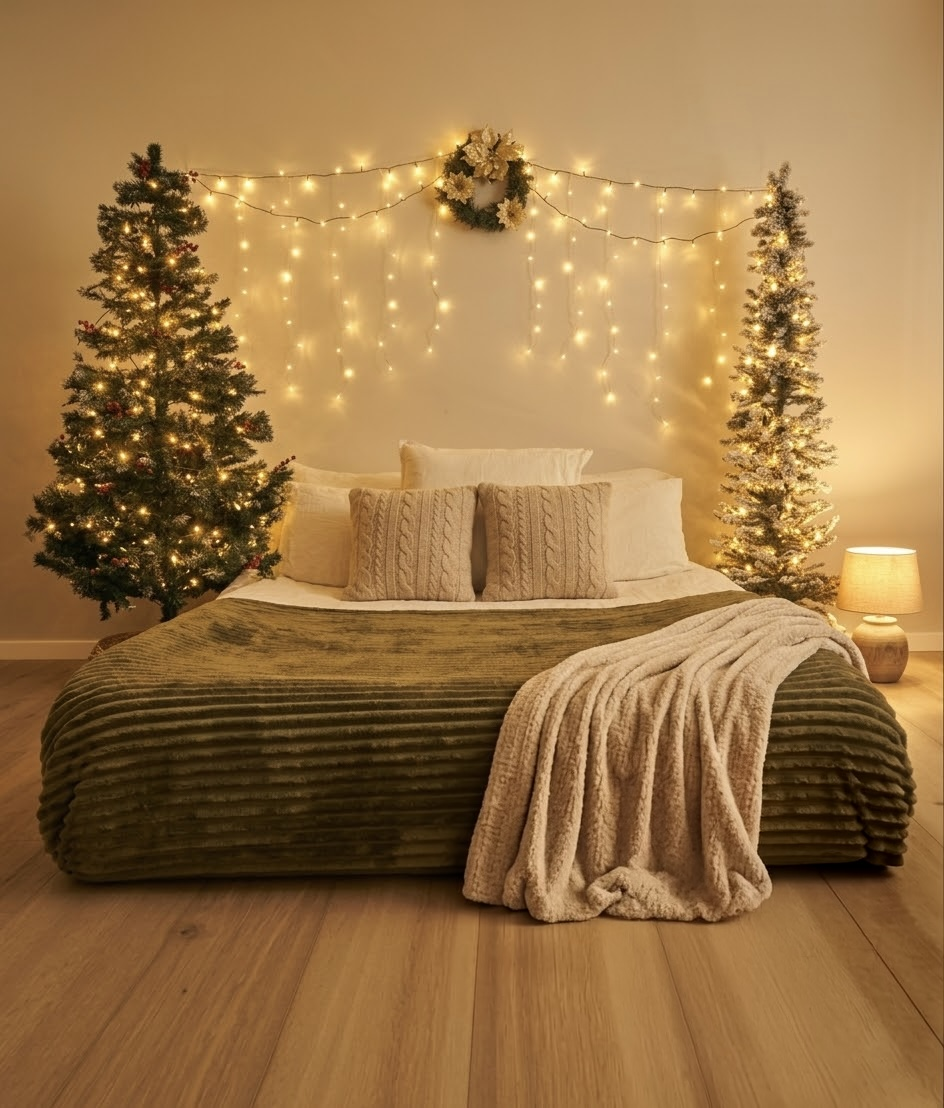
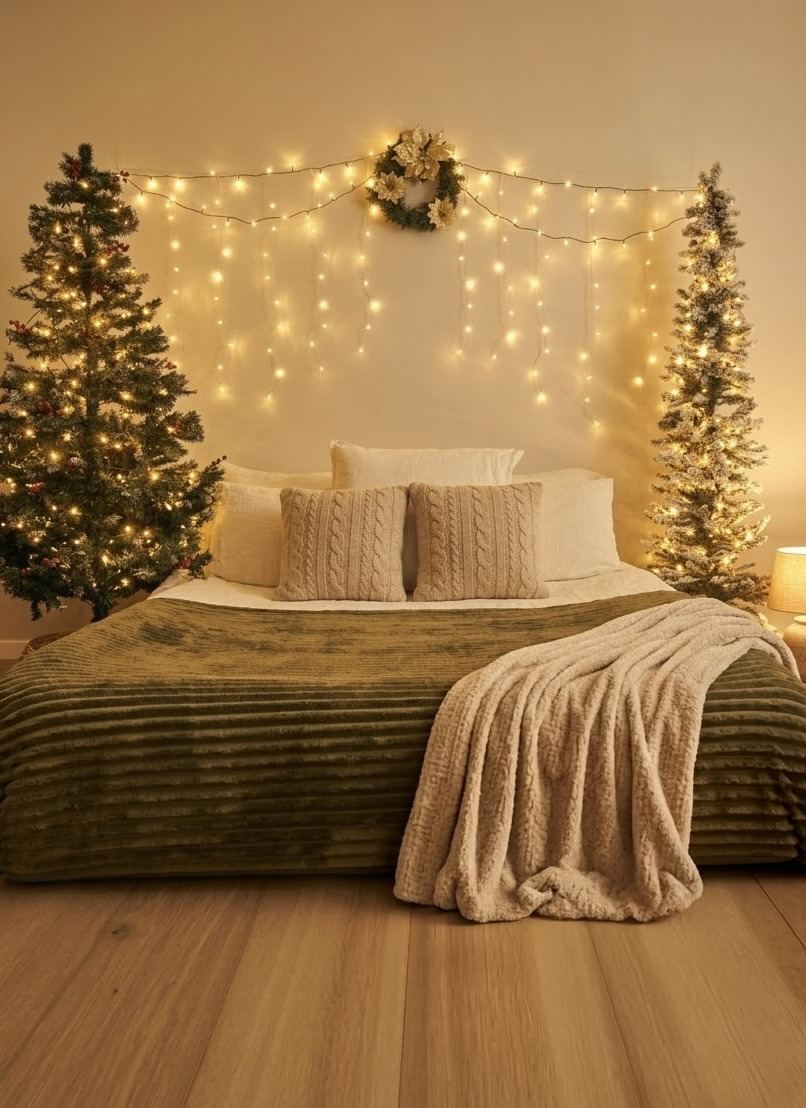
Christmas minis: add the chair set as a second option
Two sets are up all day now, so families choose on arrival. The bed
suits babies and little ones; the chairs take up to four adults and
suit kids past the being-held stage, or grandparents joining in.

Shows both sets side by side at matched crops, and brings the copy,
the alt text and the FAQPage JSON-LD into line with there being two.

Claude-Session: https://claude.ai/code/session_01Jmhh5Er2vGiQE4SfjCEe2P

diff --git a/christmas-minis.html b/christmas-minis.html
@@ -42,7 +42,7 @@
         "name": "Is fifteen minutes actually enough?",
         "acceptedAnswer": {
           "@type": "Answer",
-          "text": "Yes. The set is already built and lit, so none of your time goes on setting up. There is also a ten-minute buffer between sessions, so nobody is hurried out and little ones get a moment to warm up first. Fifteen minutes is also about the honest limit of a toddler's patience."
+          "text": "Yes. Both sets are already built and lit, so none of your time goes on setting up. There is also a ten-minute buffer between sessions, so nobody is hurried out and little ones get a moment to warm up first. Fifteen minutes is also about the honest limit of a toddler's patience."
         }
       },
       {
@@ -58,7 +58,7 @@
         "name": "What should we wear?",
         "acceptedAnswer": {
           "@type": "Answer",
-          "text": "Christmas clothes are very welcome, or wear whatever everyone is comfortable in. Neutrals sit beautifully against the set, and textures like knits, cord and wool read better on camera than flat block colour. Pick colours that complement each other rather than matching exactly."
+          "text": "Christmas clothes are very welcome, or wear whatever everyone is comfortable in. Neutrals sit beautifully against both sets, and textures like knits, cord and wool read better on camera than flat block colour. Pick colours that complement each other rather than matching exactly."
         }
       },
       {
@@ -74,7 +74,7 @@
         "name": "How many of us can come?",
         "acceptedAnswer": {
           "@type": "Answer",
-          "text": "The set comfortably holds two adults and the kids. If you are a larger group, get in touch before you book and we will work out what is possible."
+          "text": "The bed set comfortably holds two adults and the kids. The chair set takes up to four adults, so it is the one for grandparents joining in, or for families whose kids are past the being-held stage. If you are a larger group than that, get in touch before you book and we will work out what is possible."
         }
       },
       {
@@ -220,13 +220,18 @@
     .after { margin: 60px 0 0; padding-top: 46px; border-top: 1px solid var(--border); }
     .after > h2 { margin-bottom: 14px; }
 
-    .set-grid { display: grid; grid-template-columns: 290px 1fr; gap: 34px; align-items: start; }
-    .set-grid .shot { margin: 0; aspect-ratio: 944 / 1108; }
+    .set-grid { display: block; }
+    .set-shots { display: grid; grid-template-columns: 1fr 1fr; gap: 16px; margin: 0 0 28px; }
+    .set-item { margin: 0; }
+    .set-grid .shot { margin: 0; aspect-ratio: 806 / 1108; }
+    .set-shots figcaption {
+      font-size: 0.76rem; letter-spacing: 0.02em; color: var(--mid);
+      margin-top: 8px; text-align: center;
+    }
     .set-copy p { margin: 0 0 14px; color: #4d453f; max-width: 52ch; }
     .set-copy p:last-child { margin: 0; }
     @media (max-width: 640px) {
-      .set-grid { grid-template-columns: 1fr; gap: 24px; }
-      .set-grid .shot { aspect-ratio: 4 / 3; }
+      .set-shots { gap: 10px; margin-bottom: 22px; }
     }
 
     /* FAQ — native <details> so it works without JavaScript and stays
@@ -289,7 +294,7 @@
       <picture>
         <source srcset="/Images/webp/christmas-minis-family.webp" type="image/webp">
         <img src="/Images/web/christmas-minis-family.jpg"
-             alt="A mother and her baby daughter sitting together on the bed in the Christmas set, lit trees and fairy lights either side"
+             alt="A mother and her baby daughter sitting together on the bed set, lit trees and fairy lights either side"
              width="1192" height="880" decoding="async">
       </picture>
     </figure>
@@ -378,18 +383,35 @@
     </section>
 
     <section class="after" aria-labelledby="set-h">
-      <h2 id="set-h">The set</h2>
+      <h2 id="set-h">The sets</h2>
       <div class="set-grid">
-        <figure class="shot">
-          <picture>
-            <source srcset="/Images/webp/christmas-minis-set.webp" type="image/webp">
-            <img src="/Images/web/christmas-minis-set.jpg"
-                 alt="The Christmas mini session set: a bed made up in green velvet and cream knit, framed by two lit Christmas trees and a curtain of fairy lights"
-                 width="944" height="1108" loading="lazy" decoding="async">
-          </picture>
-        </figure>
+        <div class="set-shots">
+          <figure class="set-item">
+            <div class="shot">
+              <picture>
+                <source srcset="/Images/webp/christmas-minis-set.webp" type="image/webp">
+                <img src="/Images/web/christmas-minis-set.jpg"
+                     alt="The bed set: a bed made up in green velvet and cream knit, framed by two lit Christmas trees and a curtain of fairy lights"
+                     width="806" height="1108" loading="lazy" decoding="async">
+              </picture>
+            </div>
+            <figcaption>The bed &mdash; babies and little ones</figcaption>
+          </figure>
+          <figure class="set-item">
+            <div class="shot">
+              <picture>
+                <source srcset="/Images/webp/christmas-minis-set-b.webp" type="image/webp">
+                <img src="/Images/web/christmas-minis-set-b.jpg"
+                     alt="The chair set: two red bentwood chairs on a cream drop, beside a lit Christmas tree, with a fairy-light curtain and a wreath behind"
+                     width="806" height="1108" loading="lazy" decoding="async">
+              </picture>
+            </div>
+            <figcaption>The chairs &mdash; up to four adults</figcaption>
+          </figure>
+        </div>
         <div class="set-copy">
-          <p>One set, built indoors and lit before the first family arrives.</p>
+          <p>Two sets, both built indoors and lit before the first family arrives.</p>
+          <p>Both are up all day, so you choose on arrival. The bed suits babies and little ones who are happier lying down or being held. The chairs take up to four adults and suit kids who are past the being-held stage &mdash; it's the one to pick if grandparents are coming.</p>
           <p>Since it's indoors, there's no weather to worry about and no wind chasing anyone around a park. It's warm, which matters if you're bringing a baby.</p>
           <p>There'll be Christmas tunes playing while you're in, which does more for a shy three-year-old than anything I can say to them.</p>
           <p>Bring the kids and whatever they need. Everything else is already there.</p>
@@ -411,7 +433,7 @@
       <details>
         <summary>Is fifteen minutes actually enough?</summary>
         <div class="answer">
-          <p>For this, yes. The set is already built and lit, so none of your time goes on setting up &mdash; we start the moment you walk in.</p>
+          <p>For this, yes. Both sets are already built and lit, so none of your time goes on setting up &mdash; we start the moment you walk in.</p>
           <p>There's also a ten-minute buffer between each session, so nobody is hurried out the door and little ones get a moment to look around and warm up before we start.</p>
           <p>Fifteen minutes is also about the honest limit of a toddler's patience.</p>
         </div>
@@ -428,7 +450,7 @@
         <summary>What should we wear?</summary>
         <div class="answer">
           <p>Christmas clothes are very welcome &mdash; that's half the fun of it. If that's not your thing, wear whatever everyone is comfortable in instead.</p>
-          <p>Neutrals sit beautifully against the set, and textures like knits, cord and wool read better on camera than flat block colour. Rather than everyone matching exactly, pick colours that complement each other. Unless you're all going in matching Christmas pyjamas, which is its own kind of excellent.</p>
+          <p>Neutrals sit beautifully against both sets, and textures like knits, cord and wool read better on camera than flat block colour. Rather than everyone matching exactly, pick colours that complement each other. Unless you're all going in matching Christmas pyjamas, which is its own kind of excellent.</p>
         </div>
       </details>
 
@@ -443,7 +465,8 @@
       <details>
         <summary>How many of us can come?</summary>
         <div class="answer">
-          <p>The set comfortably holds two adults and the kids. If you're a larger group, get in touch before you book and we'll work out what's possible.</p>
+          <p>The bed set comfortably holds two adults and the kids. The chair set takes up to four adults, so it's the one for grandparents joining in, or for families whose kids are past the being-held stage.</p>
+          <p>If you're a larger group than that, get in touch before you book and we'll work out what's possible.</p>
         </div>
       </details>
 
